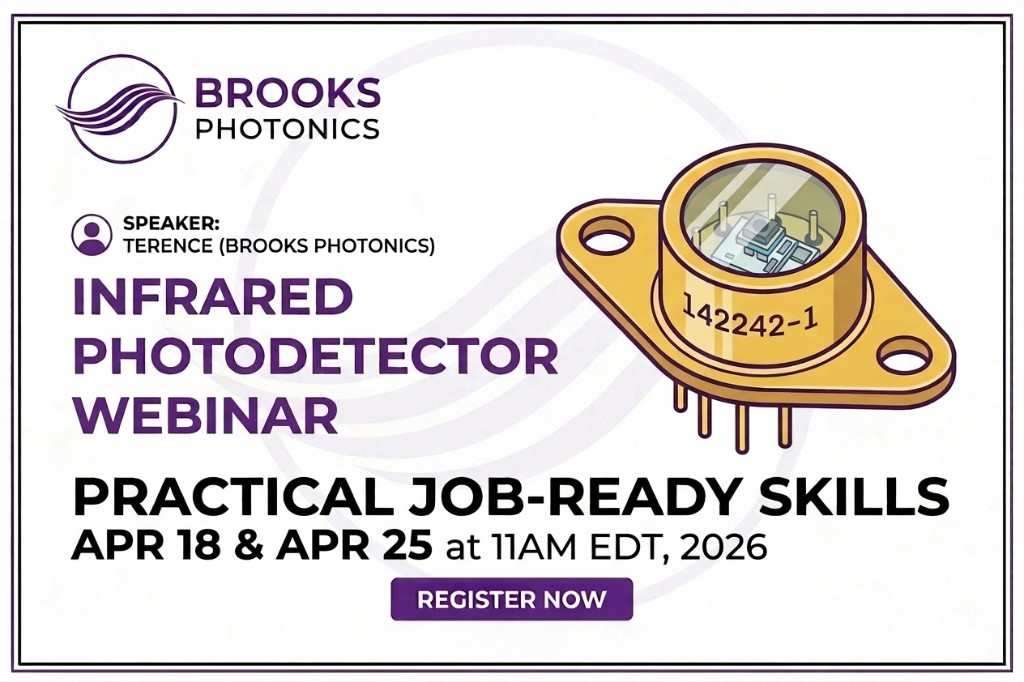
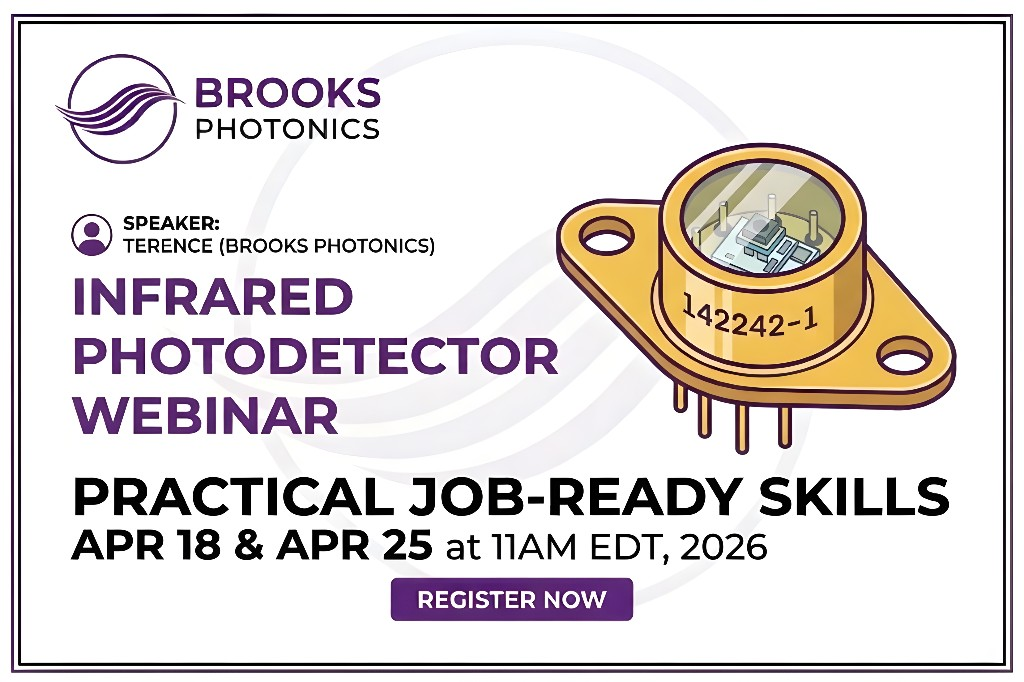
Class UX polish: upscaled promo image, classes nav, session details, calendar test link
Made-with: Cursor

diff --git a/class.html b/class.html
@@ -21,6 +21,7 @@
           <li><a href="about.html">About</a></li>
           <li><a href="services.html">Services</a></li>
           <li><a href="contact.html">Contact</a></li>
+          <li><a href="class.html" aria-current="page">Classes</a></li>
           <li><a href="posts.html">Posts</a></li>
         </ul>
       </nav>
@@ -45,7 +46,7 @@
         >
         <h2>Enroll</h2>
         <p class="class-enroll-lead">
-          Use an email you check often. After payment, we email the Zoom link and calendar invites.
+          One payment of $199 enrolls you in both sessions. Use an email you check often. After payment, we email the Zoom link and calendar invites.
         </p>
         <a class="button class-enroll-primary" href="https://buy.stripe.com/00wcN4bHd4wqalufiPgIo00" target="_blank" rel="noopener noreferrer">
           Pay $199 with Stripe
@@ -66,6 +67,7 @@
                 Email:
                 <a href="mailto:terence@brooks-photonics.com?subject=Infrared%20Photodetectors%20Class%20%E2%80%94%20question">terence@brooks-photonics.com</a>
               </li>
+              <li><strong>Calendar test:</strong> <a href="assets/class/infrared_class.ics" download>Download both sessions (.ics)</a></li>
             </ul>
           </div>
         </details>

diff --git a/about.html b/about.html
@@ -21,6 +21,7 @@
                     <li><a href="about.html">About</a></li>
                     <li><a href="services.html">Services</a></li>
                     <li><a href="contact.html">Contact</a></li>
+                    <li><a href="class.html">Classes</a></li>
                     <li><a href="posts.html">Posts</a></li>
                 </ul>
             </nav>

diff --git a/services.html b/services.html
@@ -216,6 +216,7 @@
           <li><a href="about.html">About</a></li>
           <li><a href="services.html" aria-current="page">Services</a></li>
           <li><a href="contact.html">Contact</a></li>
+          <li><a href="class.html">Classes</a></li>
           <li><a href="posts.html">Posts</a></li>
         </ul>
       </nav>

diff --git a/contact.html b/contact.html
@@ -21,6 +21,7 @@
           <li><a href="about.html">About</a></li>
           <li><a href="services.html">Services</a></li>
           <li><a href="contact.html" aria-current="page">Contact</a></li>
+          <li><a href="class.html">Classes</a></li>
           <li><a href="posts.html">Posts</a></li>
         </ul>
       </nav>

diff --git a/posts.html b/posts.html
@@ -21,6 +21,7 @@
           <li><a href="about.html">About</a></li>
           <li><a href="services.html">Services</a></li>
           <li><a href="contact.html">Contact</a></li>
+          <li><a href="class.html">Classes</a></li>
           <li><a href="posts.html">Posts</a></li>
         </ul>
       </nav>

diff --git a/index.html b/index.html
@@ -23,6 +23,7 @@
         <li><a href="about.html">About</a></li>
         <li><a href="services.html">Services</a></li>
         <li><a href="contact.html">Contact</a></li>
+        <li><a href="class.html">Classes</a></li>
         <li><a href="posts.html">Posts</a></li>
       </ul>
     </nav>
